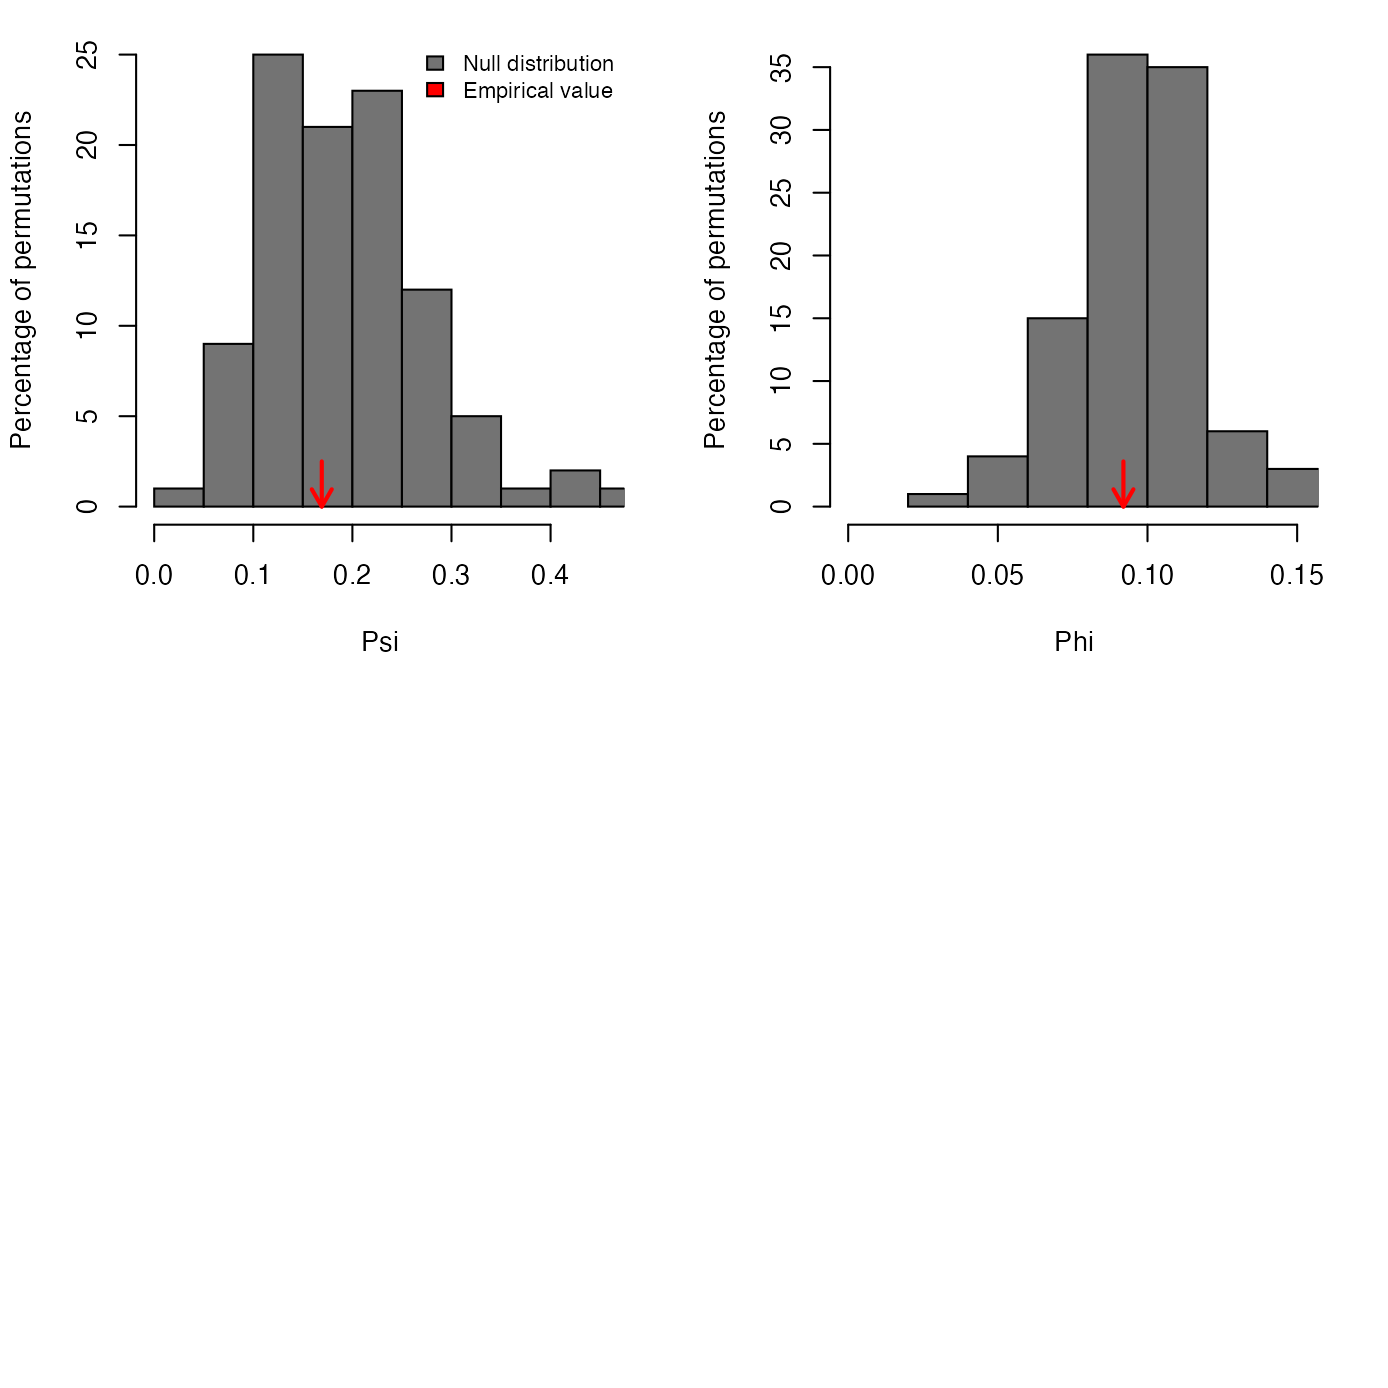
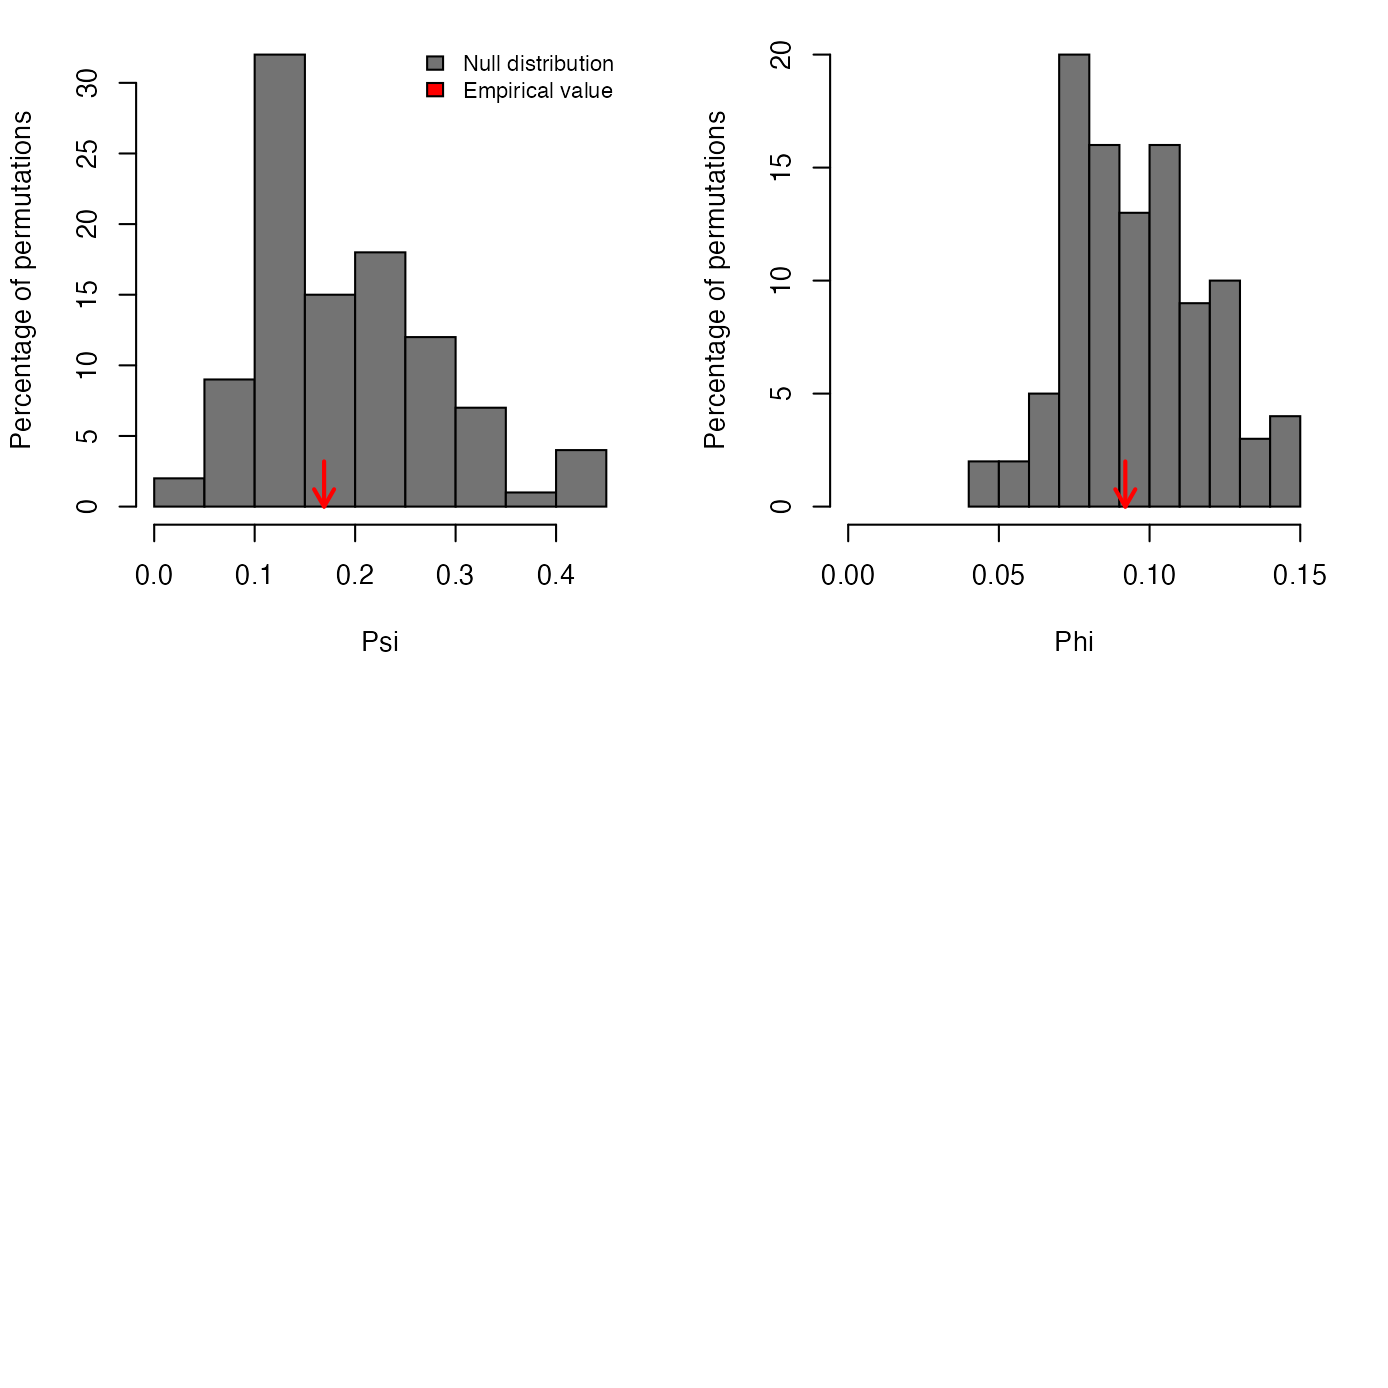
update website

diff --git a/docs/articles/my-vignette.html b/docs/articles/my-vignette.html
@@ -86,7 +86,7 @@
 <h2 class="hasAnchor">
 <a href="#introduction" class="anchor"></a>Introduction</h2>
 <p>A PCA is meaningful and should only be applied if there is a significant correlation structure among at least some of the variables in a dataset. Due to sampling variance alone, it is possible that some level of random correlation structure could occur in the data. Therefore, it is necessary to evaluate if the observed correlation structure is higher than expected due to chance alone.</p>
-<p>PCAtest uses a pair of statistics, Psi and Phi, based on the eigenvalues (roots) of a PCA to evaluate its significance by comparing observed values with their null distributions. The expected values values of Psi and Phi are calculated from random permutations of the observations within variables, which effectively removes any correlation structure among variables. If the observed statistics are not larger than the expected null distributions, PCA is meaningless and it should not be used.</p>
+<p>PCAtest uses a pair of statistics, Psi and Phi, based on the eigenvalues (roots) of a PCA to evaluate its significance by comparing observed values with their null distributions. The expected values of Psi and Phi are calculated from random permutations of the observations within variables, which effectively removes any correlation structure among variables. If the observed statistics are not larger than the expected null distributions, PCA is meaningless and it should not be used.</p>
 <p>If the null hypothesis of a non-significant PCA is rejected, then PCAtest calculates the observed eigenvalues and builds null distributions to select the number of significant PCs. In addition, PCAtest also calculates two other statistics: the index of the loadings and the correlations of each PC with the variables, to test the contribution of the observed variables to each significant PC.</p>
 </div>
 <div id="overall-significance-of-a-pca" class="section level2">
@@ -111,8 +111,8 @@
 <span class="co">#&gt; 100 bootstrap replicates, 100 random permutations</span>
 <span class="co">#&gt; ========================================================</span>
 <span class="co">#&gt; </span>
-<span class="co">#&gt; Empirical Psi = 0.1691, Max null Psi = 0.4561, Min null Psi = 0.0246, p-value = 0.54</span>
-<span class="co">#&gt; Empirical Phi = 0.0920, Max null Phi = 0.1510, Min null Phi = 0.0351, p-value = 0.54</span>
+<span class="co">#&gt; Empirical Psi = 0.1691, Max null Psi = 0.4499, Min null Psi = 0.0358, p-value = 0.51</span>
+<span class="co">#&gt; Empirical Phi = 0.0920, Max null Phi = 0.1500, Min null Phi = 0.0423, p-value = 0.51</span>
 <span class="co">#&gt; </span>
 <span class="co">#&gt; PCA is not significant!</span></code></pre></div>
 <p><img src="my-vignette_files/figure-html/unnamed-chunk-2-1.png" width="80%" height="80%"></p>
@@ -138,18 +138,18 @@
 <span class="co">#&gt; 100 bootstrap replicates, 100 random permutations</span>
 <span class="co">#&gt; ========================================================</span>
 <span class="co">#&gt; </span>
-<span class="co">#&gt; Empirical Psi = 10.9186, Max null Psi = 2.8413, Min null Psi = 0.5194, p-value = 0</span>
-<span class="co">#&gt; Empirical Phi = 0.5099, Max null Phi = 0.2601, Min null Phi = 0.1112, p-value = 0</span>
+<span class="co">#&gt; Empirical Psi = 10.9186, Max null Psi = 2.6398, Min null Psi = 0.5263, p-value = 0</span>
+<span class="co">#&gt; Empirical Phi = 0.5099, Max null Phi = 0.2507, Min null Phi = 0.1119, p-value = 0</span>
 <span class="co">#&gt; </span>
-<span class="co">#&gt; Empirical eigenvalue #1 = 3.84712, Max null eigenvalue = 2.2688, p-value = 0</span>
-<span class="co">#&gt; Empirical eigenvalue #2 = 1.52017, Max null eigenvalue = 1.72694, p-value = 0.24</span>
-<span class="co">#&gt; Empirical eigenvalue #3 = 0.70634, Max null eigenvalue = 1.35707, p-value = 1</span>
-<span class="co">#&gt; Empirical eigenvalue #4 = 0.41356, Max null eigenvalue = 1.10542, p-value = 1</span>
-<span class="co">#&gt; Empirical eigenvalue #5 = 0.34001, Max null eigenvalue = 0.96824, p-value = 1</span>
-<span class="co">#&gt; Empirical eigenvalue #6 = 0.14515, Max null eigenvalue = 0.75566, p-value = 1</span>
-<span class="co">#&gt; Empirical eigenvalue #7 = 0.02765, Max null eigenvalue = 0.63198, p-value = 1</span>
+<span class="co">#&gt; Empirical eigenvalue #1 = 3.84712, Max null eigenvalue = 2.14257, p-value = 0</span>
+<span class="co">#&gt; Empirical eigenvalue #2 = 1.52017, Max null eigenvalue = 1.72577, p-value = 0.19</span>
+<span class="co">#&gt; Empirical eigenvalue #3 = 0.70634, Max null eigenvalue = 1.35632, p-value = 1</span>
+<span class="co">#&gt; Empirical eigenvalue #4 = 0.41356, Max null eigenvalue = 1.10843, p-value = 1</span>
+<span class="co">#&gt; Empirical eigenvalue #5 = 0.34001, Max null eigenvalue = 0.93889, p-value = 1</span>
+<span class="co">#&gt; Empirical eigenvalue #6 = 0.14515, Max null eigenvalue = 0.78825, p-value = 1</span>
+<span class="co">#&gt; Empirical eigenvalue #7 = 0.02765, Max null eigenvalue = 0.66224, p-value = 1</span>
 <span class="co">#&gt; </span>
-<span class="co">#&gt; PC 1 is significant and accounts for 55% (95%-CI:42.2-64.9) of the total variation</span></code></pre></div>
+<span class="co">#&gt; PC 1 is significant and accounts for 55% (95%-CI:43.5-64.4) of the total variation</span></code></pre></div>
 <p><img src="my-vignette_files/figure-html/unnamed-chunk-3-1.png" width="80%" height="80%"></p>
 </div>
 <div id="testing-which-variables-have-significant-loadings" class="section level2">
@@ -173,18 +173,18 @@
 <span class="co">#&gt; 100 bootstrap replicates, 100 random permutations</span>
 <span class="co">#&gt; ========================================================</span>
 <span class="co">#&gt; </span>
-<span class="co">#&gt; Empirical Psi = 10.9186, Max null Psi = 2.7408, Min null Psi = 0.5566, p-value = 0</span>
-<span class="co">#&gt; Empirical Phi = 0.5099, Max null Phi = 0.2555, Min null Phi = 0.1151, p-value = 0</span>
+<span class="co">#&gt; Empirical Psi = 10.9186, Max null Psi = 2.8082, Min null Psi = 0.6499, p-value = 0</span>
+<span class="co">#&gt; Empirical Phi = 0.5099, Max null Phi = 0.2586, Min null Phi = 0.1244, p-value = 0</span>
 <span class="co">#&gt; </span>
-<span class="co">#&gt; Empirical eigenvalue #1 = 3.84712, Max null eigenvalue = 2.28811, p-value = 0</span>
-<span class="co">#&gt; Empirical eigenvalue #2 = 1.52017, Max null eigenvalue = 1.70398, p-value = 0.14</span>
-<span class="co">#&gt; Empirical eigenvalue #3 = 0.70634, Max null eigenvalue = 1.37163, p-value = 1</span>
-<span class="co">#&gt; Empirical eigenvalue #4 = 0.41356, Max null eigenvalue = 1.14597, p-value = 1</span>
-<span class="co">#&gt; Empirical eigenvalue #5 = 0.34001, Max null eigenvalue = 0.98767, p-value = 1</span>
-<span class="co">#&gt; Empirical eigenvalue #6 = 0.14515, Max null eigenvalue = 0.76215, p-value = 1</span>
-<span class="co">#&gt; Empirical eigenvalue #7 = 0.02765, Max null eigenvalue = 0.62666, p-value = 1</span>
+<span class="co">#&gt; Empirical eigenvalue #1 = 3.84712, Max null eigenvalue = 2.16597, p-value = 0</span>
+<span class="co">#&gt; Empirical eigenvalue #2 = 1.52017, Max null eigenvalue = 1.79872, p-value = 0.13</span>
+<span class="co">#&gt; Empirical eigenvalue #3 = 0.70634, Max null eigenvalue = 1.47698, p-value = 1</span>
+<span class="co">#&gt; Empirical eigenvalue #4 = 0.41356, Max null eigenvalue = 1.14022, p-value = 1</span>
+<span class="co">#&gt; Empirical eigenvalue #5 = 0.34001, Max null eigenvalue = 1.00708, p-value = 1</span>
+<span class="co">#&gt; Empirical eigenvalue #6 = 0.14515, Max null eigenvalue = 0.73158, p-value = 1</span>
+<span class="co">#&gt; Empirical eigenvalue #7 = 0.02765, Max null eigenvalue = 0.5666, p-value = 1</span>
 <span class="co">#&gt; </span>
-<span class="co">#&gt; PC 1 is significant and accounts for 55% (95%-CI:41.1-65.7) of the total variation</span>
+<span class="co">#&gt; PC 1 is significant and accounts for 55% (95%-CI:46.1-64.2) of the total variation</span>
 <span class="co">#&gt; </span>
 <span class="co">#&gt; Variables 1, 2, 3, 4, 5, and 7 have significant loadings on PC 1</span></code></pre></div>
 <p><img src="my-vignette_files/figure-html/unnamed-chunk-4-1.png" width="80%" height="80%"></p>
@@ -210,20 +210,20 @@
 <span class="co">#&gt; 100 bootstrap replicates, 100 random permutations</span>
 <span class="co">#&gt; ========================================================</span>
 <span class="co">#&gt; </span>
-<span class="co">#&gt; Empirical Psi = 10.9186, Max null Psi = 2.9630, Min null Psi = 0.6616, p-value = 0</span>
-<span class="co">#&gt; Empirical Phi = 0.5099, Max null Phi = 0.2656, Min null Phi = 0.1255, p-value = 0</span>
+<span class="co">#&gt; Empirical Psi = 10.9186, Max null Psi = 2.8666, Min null Psi = 0.4841, p-value = 0</span>
+<span class="co">#&gt; Empirical Phi = 0.5099, Max null Phi = 0.2613, Min null Phi = 0.1074, p-value = 0</span>
 <span class="co">#&gt; </span>
-<span class="co">#&gt; Empirical eigenvalue #1 = 3.84712, Max null eigenvalue = 2.36479, p-value = 0</span>
-<span class="co">#&gt; Empirical eigenvalue #2 = 1.52017, Max null eigenvalue = 1.68822, p-value = 0.16</span>
-<span class="co">#&gt; Empirical eigenvalue #3 = 0.70634, Max null eigenvalue = 1.39483, p-value = 1</span>
-<span class="co">#&gt; Empirical eigenvalue #4 = 0.41356, Max null eigenvalue = 1.14167, p-value = 1</span>
-<span class="co">#&gt; Empirical eigenvalue #5 = 0.34001, Max null eigenvalue = 1.03115, p-value = 1</span>
-<span class="co">#&gt; Empirical eigenvalue #6 = 0.14515, Max null eigenvalue = 0.77879, p-value = 1</span>
-<span class="co">#&gt; Empirical eigenvalue #7 = 0.02765, Max null eigenvalue = 0.57163, p-value = 1</span>
+<span class="co">#&gt; Empirical eigenvalue #1 = 3.84712, Max null eigenvalue = 2.26748, p-value = 0</span>
+<span class="co">#&gt; Empirical eigenvalue #2 = 1.52017, Max null eigenvalue = 1.75182, p-value = 0.18</span>
+<span class="co">#&gt; Empirical eigenvalue #3 = 0.70634, Max null eigenvalue = 1.35095, p-value = 1</span>
+<span class="co">#&gt; Empirical eigenvalue #4 = 0.41356, Max null eigenvalue = 1.16354, p-value = 1</span>
+<span class="co">#&gt; Empirical eigenvalue #5 = 0.34001, Max null eigenvalue = 0.97197, p-value = 1</span>
+<span class="co">#&gt; Empirical eigenvalue #6 = 0.14515, Max null eigenvalue = 0.81667, p-value = 1</span>
+<span class="co">#&gt; Empirical eigenvalue #7 = 0.02765, Max null eigenvalue = 0.64208, p-value = 1</span>
 <span class="co">#&gt; </span>
-<span class="co">#&gt; PC 1 is significant and accounts for 55% (95%-CI:43.8-65.9) of the total variation</span>
+<span class="co">#&gt; PC 1 is significant and accounts for 55% (95%-CI:44.4-63.3) of the total variation</span>
 <span class="co">#&gt; </span>
-<span class="co">#&gt; Variables , and 2 have significant correlations with PC 1</span></code></pre></div>
+<span class="co">#&gt; Variables 2, and 3 have significant correlations with PC 1</span></code></pre></div>
 </div>
   </div>
 

diff --git a/docs/index.html b/docs/index.html
@@ -212,6 +212,11 @@
 <span class="co">#&gt; Variables 1, 2, 3, 4, 5, and 7 have significant loadings on PC 1</span></code></pre></div>
 <p><img src="reference/figures/README-example4-1.png" width="100%"></p>
 </div>
+<div id="testing" class="section level2">
+<h2 class="hasAnchor">
+<a href="#testing" class="anchor"></a>Testing</h2>
+<p><a href="tests/testthat/testthat.html">Unit testing with testthat (https://testthat.r-lib.org/)</a></p>
+</div>
 <div id="references" class="section level2">
 <h2 class="hasAnchor">
 <a href="#references" class="anchor"></a>References</h2>
